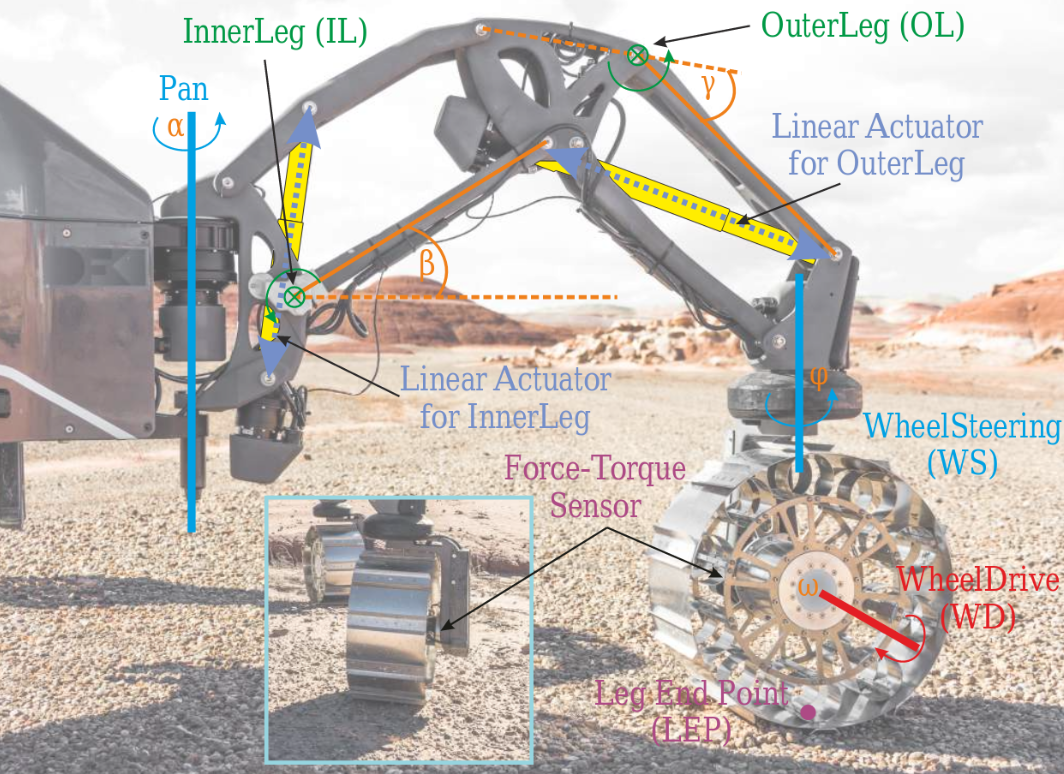
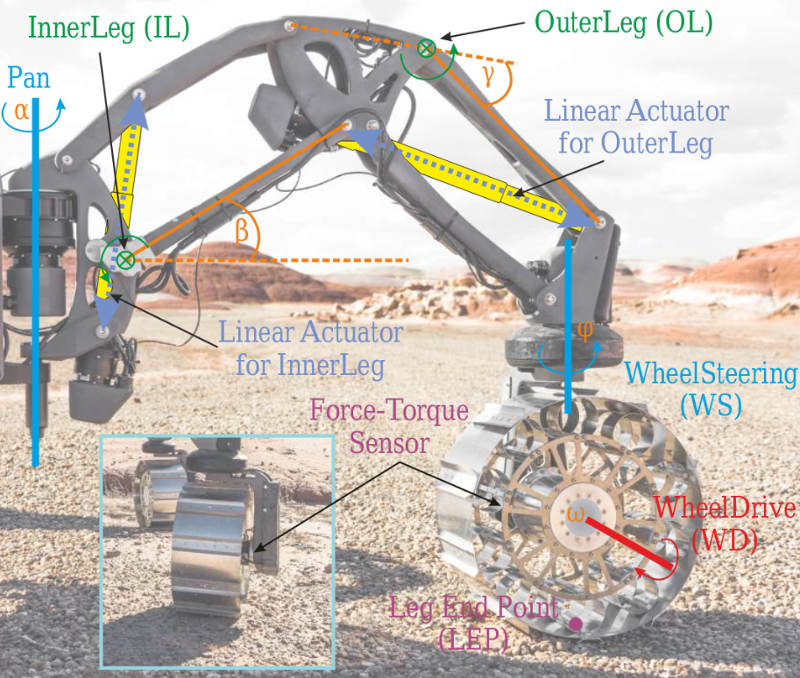
Figure rearrangement in intro. Sentence editing for clarity in State of the Art.

diff --git a/latex/sections/mars-solar-energy/photovoltaic-energy/index.tex b/latex/sections/mars-solar-energy/photovoltaic-energy/index.tex
@@ -1,7 +1,5 @@
 A distinction exists between \ac{PV} cell, panel/module, and the \ac{SA} surface area. \ac{PV} cells are interconnected together in a package called a panel, or module, which is then wired in series and parallel into a \ac{PV} array. The interconnections between cells and wiring between panels introduce cell coverage gaps from which no power is generated. As such, considering panel or array rather than cell surface area for power and energy calculations would result in over-estimated values. By way of example, \refFig{fig:image:mer-solar-arrays} presents the \ac{MER} Opportunity \ac{SA} which is made up of a total of 499 cells: 165 on the port wing, 167 on the starboard wing, 102 on the stern, and 65 on the body. A cell's dimension is 3.95 \si{\centi\meter} $\times$  6.89 \si{\centi\meter}\footnote{Dimensions obtained from an e-mail exchange Richard C. Ewell (NASA/JPL) on 9-Oct-2019.} with two cropped corners which provides an active area of \SI{26.6}{\centi\meter\squared} resulting in a solar cell coverage area of $499 \times \SI{26.6}{\centi\meter\squared} = \SI{1.3}{\meter\squared}$.
 
-%\todo[inline]{\text{TODO:} Source E-mail exchange with Richard C. Ewell (NASA/JPL) for the MER solar cell size.}
-
 \begin{figure}[h]
 \captionsetup[subfigure]{justification=centering}
 %\vspace{-2ex}
@@ -31,9 +29,7 @@ A distinction exists between \ac{PV} cell, panel/module, and the \ac{SA} surface
 \end{figure}
 
 % Solar array source: https://mars.nasa.gov/resources/5852/opportunity-self-portrait/?site=insight
-
 % Dust streak source: https://www.nasa.gov/feature/jpl/rover-takes-on-steepest-slope-ever-tried-on-mars
-
 
 \subsection{Performance Ratio}
 \label{sec:PowerAndEnergyPredictions:PerformanceRatio}
@@ -46,8 +42,6 @@ Power and energy calculations take into account solar cell \ac{PR}, also known a
   \item\label{itm:pr:saturation}Dust performance degradiation saturates at about \SI{30}{\percent} \citepower{Stella2005}.
   \item\label{itm:pr:shadowing}Variable shadowing from protruding rover structures \citepower{Stella2005} and terrain masking \citepower{Kerslake1999}.
 \end{enumerate}
-
-%The \ac{PR} in the daily energy calculations throughout this chapter are partly made up of degradation coefficients from \ref{itm:pr:perm_loss} and \ref{itm:pr:temp}. Validation against \ac{MER} Opportunity data uses the \ac{SA} dust factor reported by the rover rather than those described in \ref{itm:pr:deposition} and \ref{itm:pr:saturation}. Losses from \ref{itm:pr:shadowing} and other unaccounted factors are first assumed at \SI{5}{\percent} before iteratively revising them along with \ac{SA} dust factor so that the error margin range may be reduced.
 
 Dust deposition induced losses do not perennially degrade the solar cells but fluctuate due to probabilistic dust cleaning events such as encounters with dust devils, storm winds, or even from a steep tilt angle as seen in \refFig{fig:image:mer-opportunity-dust-streaks}.
 
@@ -198,8 +192,6 @@ Divergences that are beyond \SI{-20}{\percent} are listed in \refTab{tab:diverge
 
 \vspace{0.5cm}
 
-%\todo[inline]{\textbf{TODO:} Source MER Opportunity status log.}
-%Sources. For terrestrial year 2010: https://mars.nasa.gov/mer/mission/rover-status/opportunity/2010/
 The use of fixed daily values for the certain irradiance calculation variables also contributes to the observed divergences:
 \clearpage
 \begin{enumerate}[label=\textcolor{BulletBlue}{(\alph*)}]
@@ -223,7 +215,6 @@ An average slope angle of \SI{13}{\degree} is assumed based on the following:
 \end{itemize}
 
 As in \refSec{sec:PowerAndEnergyPredictions:Validation:HorizontalSurface}, performance ratios described in \refSec{sec:PowerAndEnergyPredictions:PerformanceRatio} are also used. Due to large uncertainties regarding rover inclination and orientation angles, this section only aims to validate that \refEqn{eq:SA_slope_energy} results in smaller energy predictions divergences than what would otherwise be obtained using \refEqn{eq:SA_energy}. The results are presented in \refTab{tab:divergences-inclined-surfaces}.
-
 
 \input{sections/mars-solar-energy/photovoltaic-energy/tables/divergences-inclined-surfaces.tex}
 

diff --git a/latex/sections/state-of-the-art/pv-and-energy-storage/index.tex b/latex/sections/state-of-the-art/pv-and-energy-storage/index.tex
@@ -2,13 +2,13 @@
 At the time of writing this thesis, the InSight lander is the most recent solar powered mission currently operating on the Martian surface. On its first Sol, it generated a record breaking \SI{4.6}{\kilo\watt\hour} of energy. Its``UltraFlex'' \acp{SA} are manufactored by Orbital ATK.
 
 \subsubsection{Triple Junction}
-The ``UltraFlex'' \acp{SA} are made from SolAero \ac{ZTJ} \ac{InGaP}/\ac{InGaAs}/\ac{Ge} space solar cells that boast a \SI{29.5}{\percent} \ac{BOL} efficiency at maximum power point for \ac{AM0} and \SI{135.3}{\milli\watt/\centi\meter^{2}} \citedatasheet{SolAeroZTJDataSheet}. Similar solar cells with idential efficiencies are also available from other manufacturers such as Emcore \citedatasheet{EmcoreZTJDataSheet}. \ac{TJ} \ac{GaAs} junction solar cells manufactured by AzureSpace advertise an average effeciency of \SI{29.5}{\percent} at \SI{1367}{\watt/\centi\meter^{2}} and \SI{29.8}{\percent} at \SI{1353}{\watt/\centi\meter^{2}} for \ac{AM0}, \SI{28}{\celsius} \citedatasheet{AzureSpaceTJDataSheet}.
+The ``UltraFlex'' \acp{SA} are made from SolAero \ac{ZTJ} \ac{InGaP}/\ac{InGaAs}/\ac{Ge} space solar cells that boast a \SI{29.5}{\percent} \ac{BOL} efficiency at maximum power point for \SI{135.3}{\milli\watt/\centi\meter^{2}} at \ac{AM0} \citedatasheet{SolAeroZTJDataSheet}. Similar solar cells with idential efficiencies are also available from other manufacturers such as Emcore \citedatasheet{EmcoreZTJDataSheet}. \ac{TJ} \ac{GaAs} junction solar cells manufactured by AzureSpace advertise an average effeciency of \SI{29.5}{\percent} at \SI{1367}{\watt/\centi\meter^{2}} and \SI{29.8}{\percent} at \SI{1353}{\watt/\centi\meter^{2}} for \ac{AM0} and \SI{28}{\celsius} \citedatasheet{AzureSpaceTJDataSheet}.
 
 \subsubsection{Quadruple Junction}
-\ac{QJ} solar cells of type \ac{AlInGaP}/\ac{AlInGaAs}/\ac{InGaAs}/\ac{Ge} on \ac{Ge} substrate manufactured by AzureSpace have an average efficiency of \SI{31.8}{\percent} at \ac{BOL} for \ac{AM0}, \SI{1367}{\watt/\centi\meter^{2}}, and \SI{25}{\celsius} \citedatasheet{AzureSpaceQJDataSheet}. \ac{QJ} solar cells with high theoretical efficiency of \SI{47.2}{\percent} have been proposed in \citepower{Hossain2016} as well as up to \SI{50}{\percent} efficiency in \citepower{Bestam2016} with \ac{InGaP}/\ac{InGaAs}/\ac{InGaAsN}/\ac{Ge}.
+\ac{QJ} solar cells of type \ac{AlInGaP}/\ac{AlInGaAs}/\ac{InGaAs}/\ac{Ge} on \ac{Ge} substrate manufactured by AzureSpace have an average \ac{BOL} efficiency of \SI{31.8}{\percent} for \SI{1367}{\watt/\centi\meter^{2}} at \ac{AM0} and \SI{25}{\celsius} \citedatasheet{AzureSpaceQJDataSheet}. \ac{QJ} solar cells with high theoretical efficiency of \SI{47.2}{\percent} have been proposed in \citepower{Hossain2016} as well as up to \SI{50}{\percent} efficiency in \citepower{Bestam2016} with \ac{InGaP}/\ac{InGaAs}/\ac{InGaAsN}/\ac{Ge}.
 
 \subsubsection{Inverted Metamorphic Multi Junction}
-Space-grade \ac{IMM} solar cells manufactured by SolAero have a typical \ac{BOL} efficiency of \SI{32}{\percent} at maximum power point for \ac{AM0}, \SI{135.3}{\milli\watt/\centi\meter^{2}}, and \SI{28}{\celsius} \citedatasheet{SolAeroIMMDataSheet}. Series-connected \ac{5J} and \ac{6J} concentrator solar cell strategies have been proposed in \citepower{Geisz2017} as an extension to \ac{QJ} \ac{IMM} for a potential to exceed \SI{50}{\percent} efficiency.
+Space-grade \ac{IMM} solar cells manufactured by SolAero have a typical \ac{BOL} efficiency of \SI{32}{\percent} at maximum power point for \SI{135.3}{\milli\watt/\centi\meter^{2}} at \ac{AM0} and \SI{28}{\celsius} \citedatasheet{SolAeroIMMDataSheet}. Series-connected \ac{5J} and \ac{6J} concentrator solar cell strategies have been proposed in \citepower{Geisz2017} as an extension to \ac{QJ} \ac{IMM} for a potential to exceed \SI{50}{\percent} efficiency.
 
 \subsection{Battery Cells}
 The battery cell presented in this section were selected from manufacturers that provided cells for InSight, Mars 2020, and Rosalind Franklin.

diff --git a/latex/sections/state-of-the-art/past-missions/index.tex b/latex/sections/state-of-the-art/past-missions/index.tex
@@ -4,14 +4,12 @@
 
 % All others:
 % https://science.nasa.gov/toolkits/spacecraft-icons
-The scope of this section is restricted to successful missions. At the time of writing this thesis, the \ac{NASA} remains the only organization to successfully land and operate a spacecraft on the Martian surface. Two types of missions are explored: landers and rovers. Descriptions of these missions are restricted to power generation and storage characteristics.
+This section is restricted to successful missions. At the time of writing this thesis, the \ac{NASA} remains the only organization to successfully land and operate a spacecraft on the Martian surface. Descriptions of these missions are restricted to power generation and storage characteristics.
 
 \subsection{Landers}
 \label{sec:StateOfTheArt:PastAndOngoingMissions:Landers}
 
-Successful landers are shown in \refFig{fig:past-mission-landers}. The Viking Program involved two space probes: Viking 1 and Viking 2. Each were composed of an orbiter and a lander, identified as \ac{VL1} and \ac{VL2}, shown \refFig{fig:sub:past-mission-lander-viking}. The Phoenix lander, shown in \refFig{fig:sub:past-mission-lander-phoenix}, was part of the Mars Scout Program. The ongoing InSight mission lander is part of the Discovery Program and is shown in \refFig{fig:sub:past-mission-lander-insight}.
-
-\vspace{0.5cm}
+Landers are shown in \refFig{fig:past-mission-landers}. The Viking Program developed orbiters and a landers. The latters, identified as \ac{VL1} and \ac{VL2}, are shown in \refFig{fig:sub:past-mission-lander-viking}. The Phoenix lander, shown in \refFig{fig:sub:past-mission-lander-phoenix}, was part of the Mars Scout Program. The ongoing \ac{InSight} mission is part of the Discovery Program and is shown in \refFig{fig:sub:past-mission-lander-insight}.
 
 \begin{figure}[h]
 \captionsetup[subfigure]{justification=centering}
@@ -19,7 +17,7 @@ Successful landers are shown in \refFig{fig:past-mission-landers}. The Viking Pr
 	\centering
     %% setup sizes
     \setlength{\subfigureWidth}{0.48\textwidth}
-    \setlength{\graphicsHeight}{31mm}
+    \setlength{\graphicsHeight}{30mm}
     %% kill hyper-link highlighting
     \hypersetup{hidelinks=true}%
     %% the figures
@@ -43,7 +41,7 @@ Successful landers are shown in \refFig{fig:past-mission-landers}. The Viking Pr
 		\label{fig:sub:past-mission-lander-insight}
 	\end{subfigure}
     \caption[Past and ongoing lander missions]
-            {Past and ongoing lander missions.}
+            {Past and ongoing lander missions. Images: NASA.}
 	\label{fig:past-mission-landers}
 \vspace{-2ex}
 \end{figure}
@@ -148,7 +146,7 @@ Successful rovers are shown in \refFig{fig:past-mission-rovers}. The Sojourner r
 		\label{fig:sub:past-mission-rovers-msl}
 	\end{subfigure}
     \caption[Past and ongoing rover missions]
-            {Past and ongoing rover missions.}
+            {Past and ongoing rover missions. Images: NASA.}
 	\label{fig:past-mission-rovers}
 \vspace{-2ex}
 \end{figure}

diff --git a/latex/sections/introduction/background/index.tex b/latex/sections/introduction/background/index.tex
@@ -1,22 +1,33 @@
 The wheeled-leg exploration rover SherpaTT is shown in \refFig{fig:sherpatt}. It is one of the subsystems comprising a \ac{MRS} developed at the \ac{DFKI}'s \ac{RIC}. The rover has undergone several field trial campaigns, particularly with a Mars analogue terrain field deployment  in Utah, USA, where a logistics chain for sample return was evaluated. The rover's versatility has been demonstrated through a multitude of tasks such as assembling surface deployable payloads, deploying BaseCamps, or using its \ac{RA} for soil sampling with modular \ac{PLI} sampling devices \citeother{Cordes2018}.
 
-\begin{figure}[h]
-  \centering
-  \hypersetup{linkcolor=captionTextColor}
-  \includegraphics[width=0.5\linewidth]{sections/introduction/background/images/sherpa-tt.png}\\
-  \caption[Exploration rover SherpaTT]
-          {Exploration rover SherpaTT. Taken from \citeother{Cordes2018}.}
-  \label{fig:sherpatt}
-\end{figure}
+\vspace{0.4cm}
 
+\begin{figure}[h]
+\captionsetup[subfigure]{justification=centering}
+%\vspace{-2ex}
+\centering
+    %% setup sizes
+    \setlength{\subfigureWidth}{0.50\textwidth}
+    \setlength{\graphicsHeight}{65mm}
+    %% kill hyper-link highlighting
+    \hypersetup{hidelinks=true}%
+    %% the figures
+    \begin{subfigure}[t]{\subfigureWidth}
+        \centering
+            \includegraphics[height=\graphicsHeight]{sections/introduction/background/images/sherpa-tt.png}
+            \subcaption{Exploration rover SherpaTT}
+            \label{fig:sherpatt}
+    \end{subfigure}\hfill
+    \begin{subfigure}[t]{\subfigureWidth}
+        \centering
+            \includegraphics[height=\graphicsHeight]{sections/introduction/background/images/sherpatt-actively-articulated-suspension-sytem.png}
+            \subcaption{Actively articulated suspension system}
+            \label{fig:sherpatt-actively-articulated-suspension-system}
+    \end{subfigure}\\[0.8ex]
+    \caption[SherpaTT]
+    {SherpaTT and its actively articulated suspension system. Taken from  \citeother{Cordes2018}.}
+    \label{}
+\vspace{-2ex}
+\end{figure}
 
 SherpaTT's actively articulated suspension system consists of four wheeled-legs with a total of 20 motors. The distribution of motors across a single leg is shown in \refFig{fig:sherpatt-actively-articulated-suspension-system}. Each leg is equipped with three suspension motors and two drive motors. The suspension motors are responsible for Pan, \ac{IL}, and \ac{OL} revolute joint rotations whereas the drive motors are responsible for \ac{WS} and \ac{WD}.
-
-\begin{figure}[h]
-  \centering
-  \hypersetup{linkcolor=captionTextColor}
-  \includegraphics[width=0.6\linewidth]{sections/introduction/background/images/sherpatt-actively-articulated-suspension-sytem.png}\\
-  \caption[SherpaTT actively articulated suspension system]
-          {SherpaTT actively articulated suspension system. Taken from \citeother{Cordes2018}.}
-  \label{fig:sherpatt-actively-articulated-suspension-system}
-\end{figure}

diff --git a/latex/sections/introduction/index.tex b/latex/sections/introduction/index.tex
@@ -1,4 +1,4 @@
-This chapter introduces the thesis. A brief background of the rover is presented in \refSec{sec:Introduction:Background} and the motivation driving the thesis is elaborated on in \refSec{sec:Introduction:Motivation}. The research scope is framed and the contributions are outlined in \refSec{sec:Introduction:ScopeAndContributions}. The chapter is concluded with an overview of the structure of the thesis in \refSec{sec:Introduction:StructureOfThesis}.
+This chapter introduces the thesis. A brief background of the rover is presented in \refSec{sec:Introduction:Background} and the motivation driving the thesis is in \refSec{sec:Introduction:Motivation}. The research scope is framed and the contributions are outlined in \refSec{sec:Introduction:ScopeAndContributions}. The chapter is concluded in \refSec{sec:Introduction:StructureOfThesis} with an overview of the structure of the thesis.
 
 \section{Background}
 \label{sec:Introduction:Background}

diff --git a/latex/sections/state-of-the-art/index.tex b/latex/sections/state-of-the-art/index.tex
@@ -1,4 +1,4 @@
-This chapter briefly explores the state of art in space grade solar and battery cell technologies. \refSec{sec:StateOfTheArt:PastAndOngoingMissions} presents a historical overview of past and ongoing missions. The state of practice is briefly touched upon in \refSec{sec:StateOfTheArt:PlannedMissions} as a segue to the chapter's conclusion with the state of art in \refSec{sec:StateOfTheArt:PhotovoltaicsAndEnergyStorage}.
+This chapter briefly explores the state of art in space grade solar and battery cell technologies. \refSec{sec:StateOfTheArt:PastAndOngoingMissions} presents an overview of past and ongoing missions. The state of practice is briefly touched upon in \refSec{sec:StateOfTheArt:PlannedMissions} as a segue to the state of the art in \refSec{sec:StateOfTheArt:PhotovoltaicsAndEnergyStorage}.
 
 \section{Past and Ongoing Missions}
 \label{sec:StateOfTheArt:PastAndOngoingMissions}

diff --git a/latex/sections/state-of-the-art/planned-missions/index.tex b/latex/sections/state-of-the-art/planned-missions/index.tex
@@ -36,7 +36,7 @@ At the time of writing this thesis, two rover missions are set to be launched du
 		\label{fig:sub:planned-mission-rover-exomars}
 	\end{subfigure}
 	\caption[Planned rover missions]
-            {Planned rover missions. Mars 2020 is part of \ac{NASA}'s \ac{MEP}. Rosalind Franklin is part of the international ExoMars programme led by \ac{ESA} and Roscosmos}
+            {Planned rover missions. Mars 2020 is part of \ac{NASA}'s \ac{MEP}. Rosalind Franklin is part of the international ExoMars programme led by \ac{ESA} and Roscosmos. Images: NASA.}
 	\label{fig:planned-mission-rovers}
 \vspace{-2ex}
 \end{figure}
